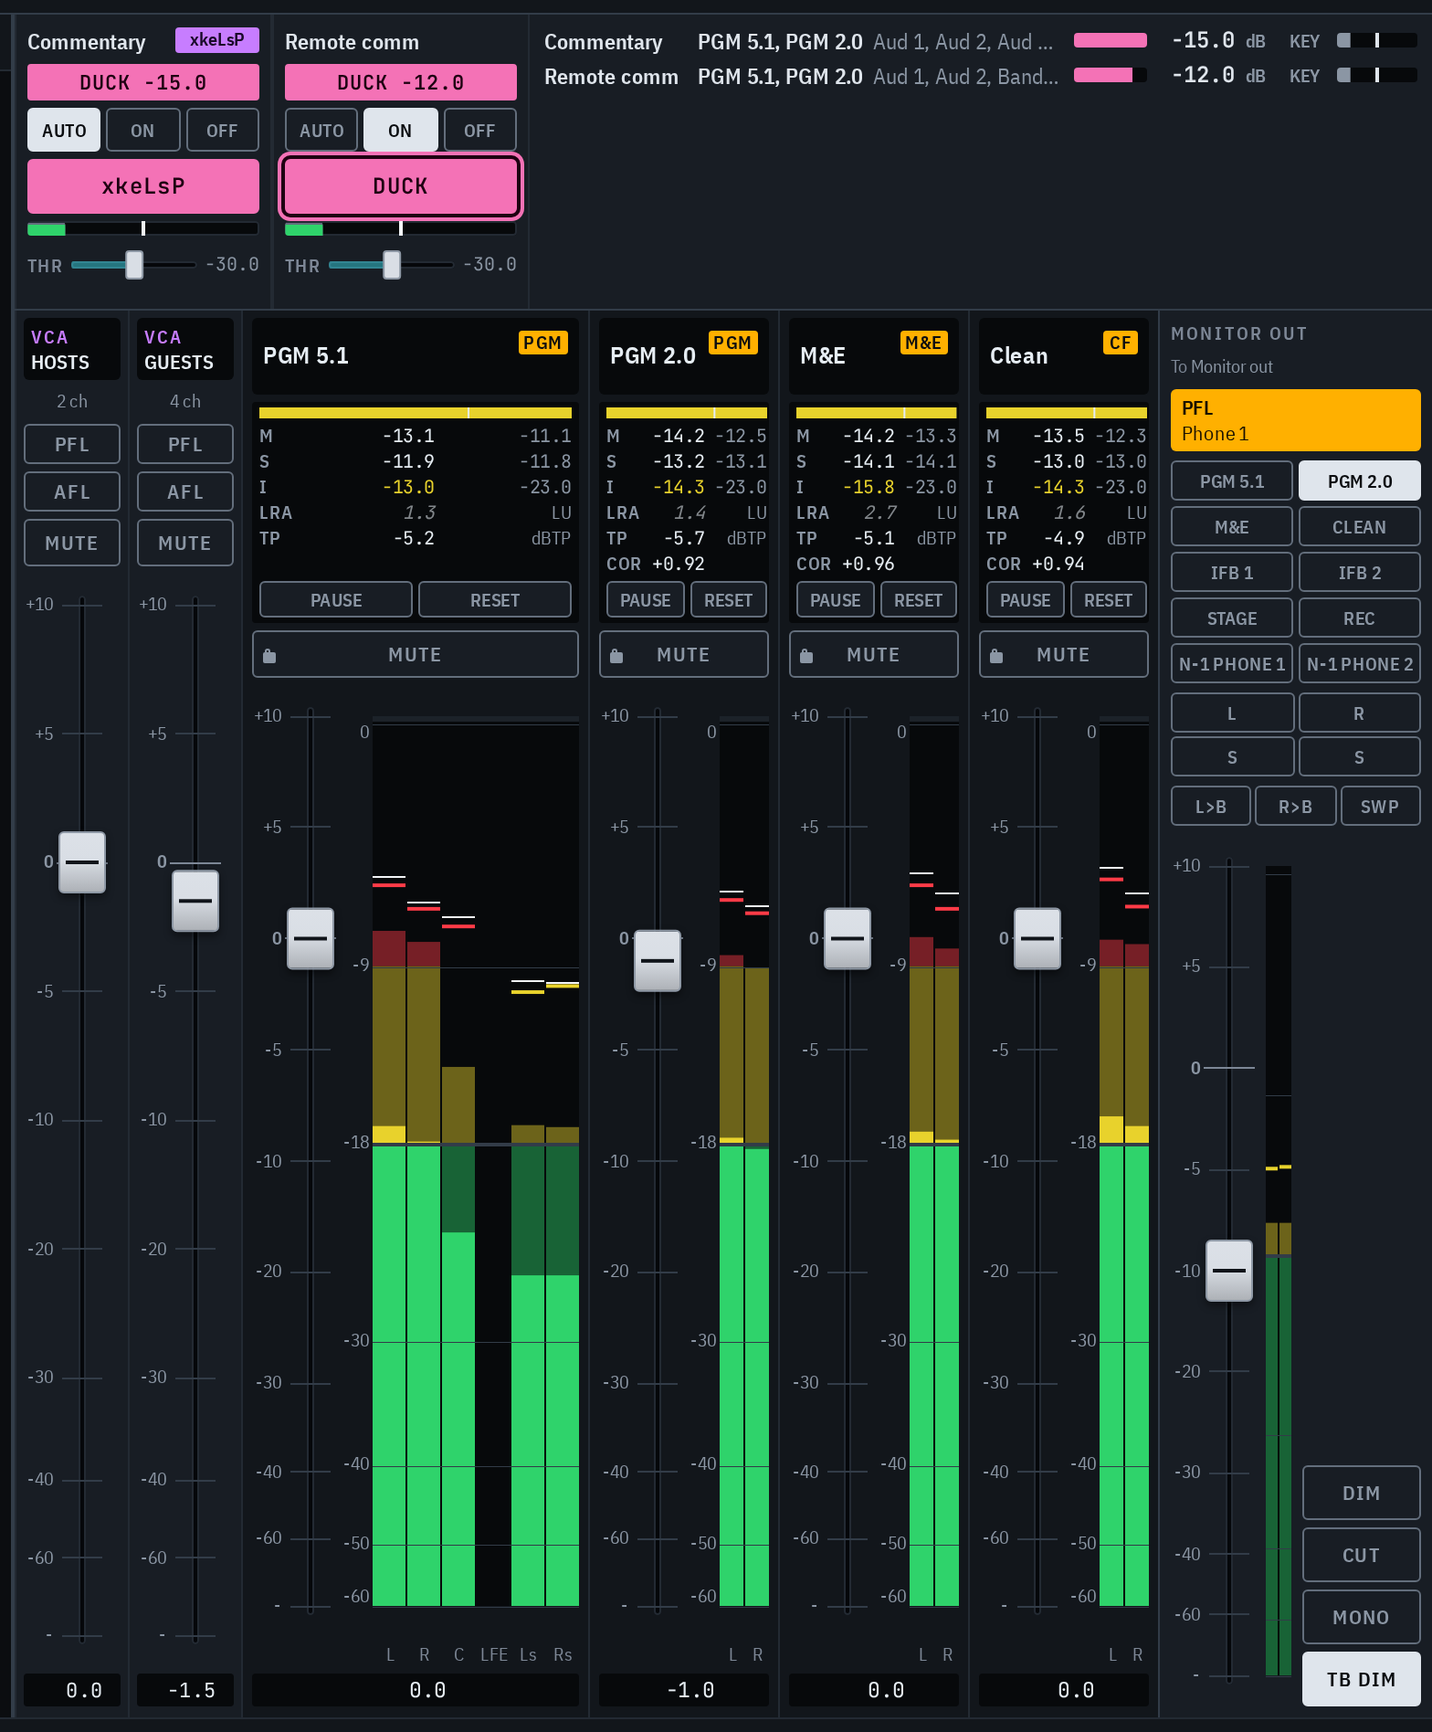
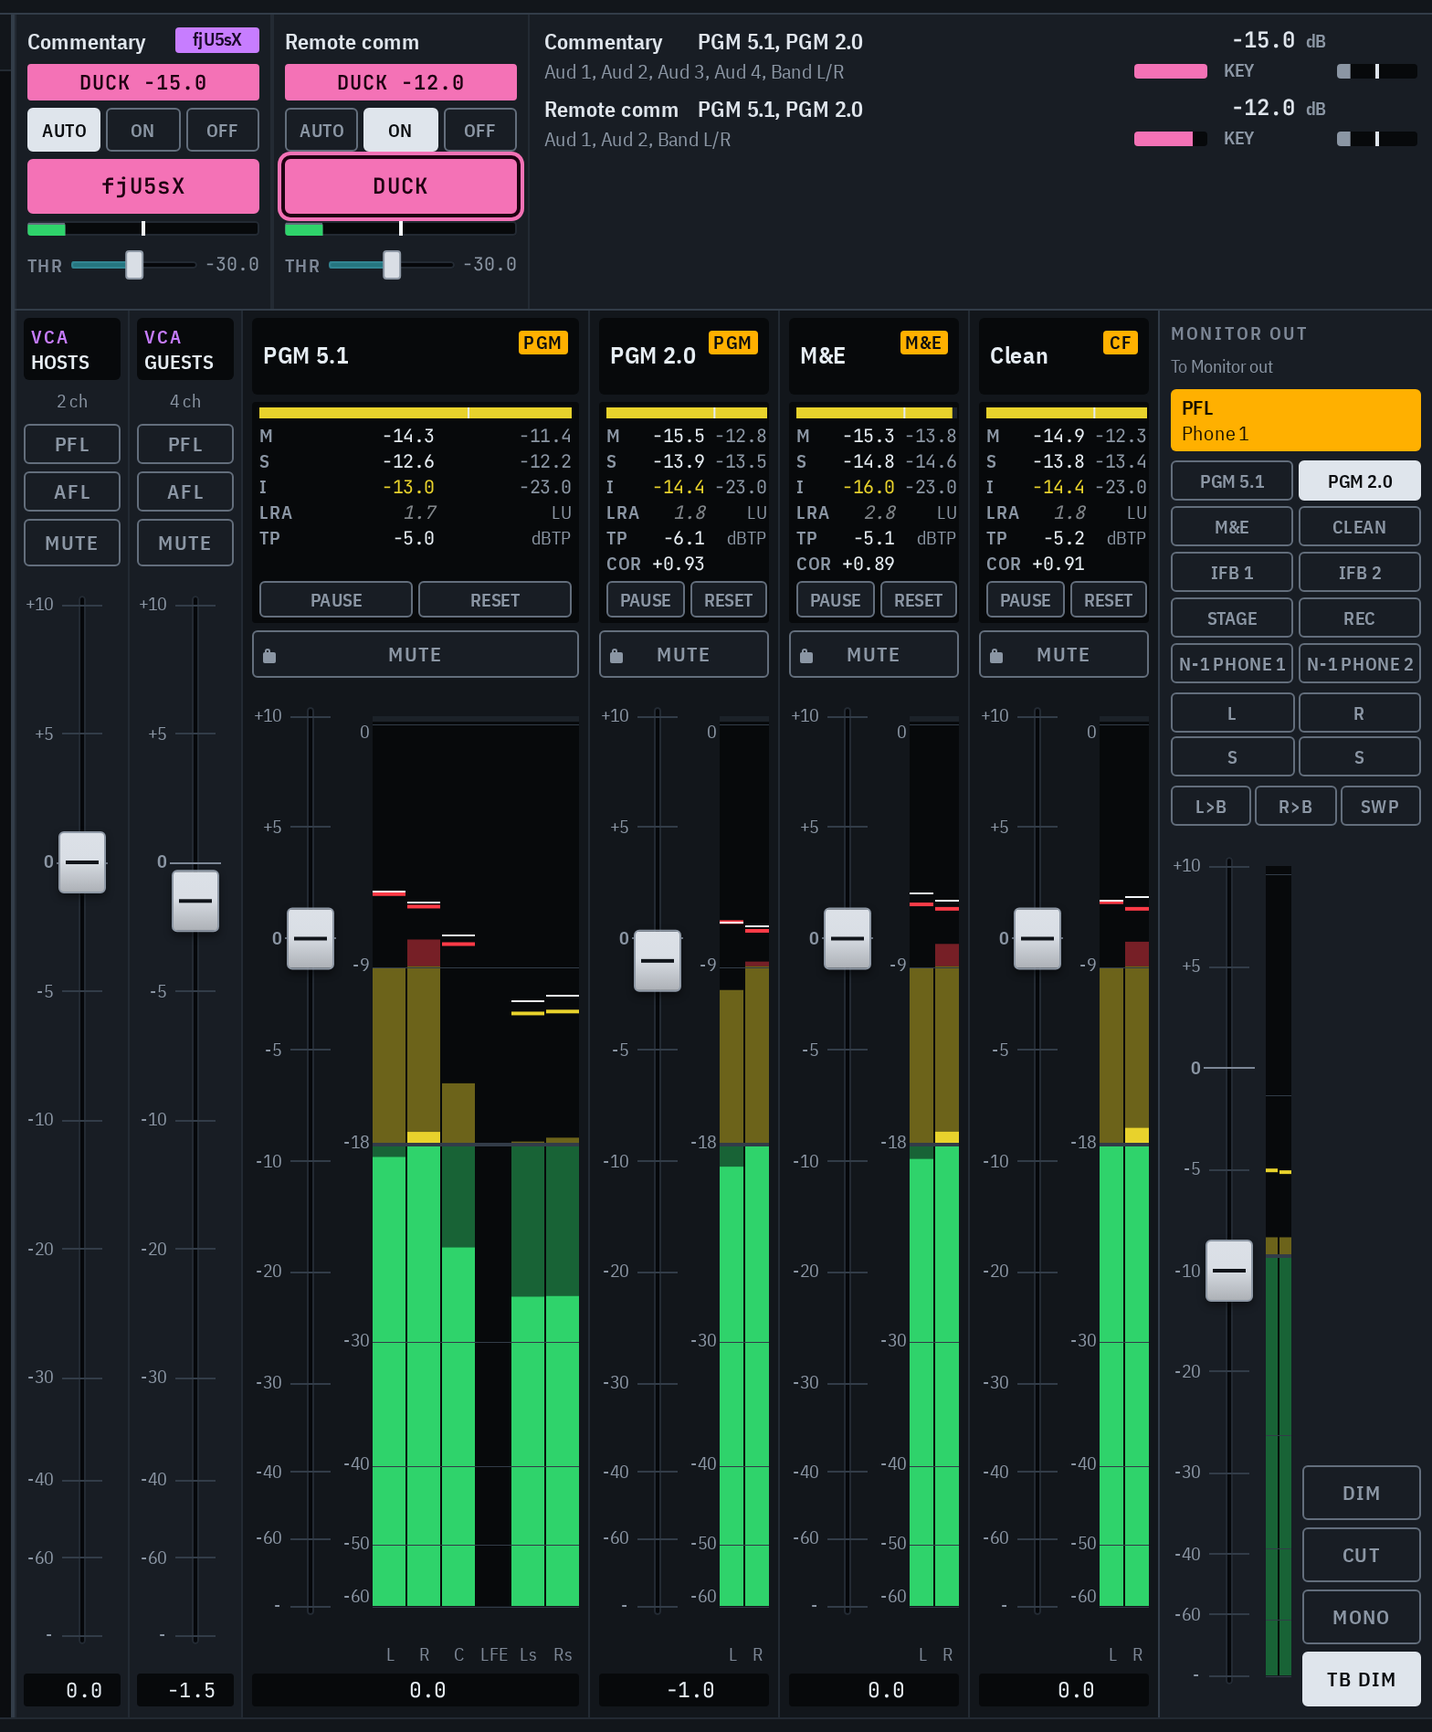
fix(web): give each duck group's outputs a row of their own
The round-2 UX review found that beside three tiles the outputs column
got about 50 px, so the second programme bus, and any IFB or N-1, was
cut; the screen reader heard each line's text twice and none of its
readings; the condensed line said KEY by hue alone; the threshold tick
faded over a lit key bar. Each group now takes two rows: the name, the
outputs and the reduction first, the targets, reduction bar, KEY and
key bar second; narrower than 300 px the outputs take the whole first
row. The band's height holds four groups, so the summary shows for up
to four. A line is named by its group, and its tooltip adds the
readings of the moment it took focus or the pointer. KEY stays in
every form; the tick is edged in the well's colour.

A strip's duck chip pads DK and KEY with centre() to GR_WIDTH and its
text block follows the chip's height with a coarse pointer; the tile's
key meter takes its scale from keyShare, as the summary.

diff --git a/web/src/components/DuckSummary.svelte b/web/src/components/DuckSummary.svelte
@@ -1,15 +1,16 @@
 <script lang="ts">
-  // The rest of the masters' duck band, beside the tiles: one line per
-  // group with its name, the outputs it lowers, the targets it lowers in
-  // them, its gain reduction as a bar and in dB, and its key as a bar
-  // against its threshold, KEY lit while the key triggers it. Narrower
-  // than SUMMARY_FULL_W the line keeps the name, the outputs, the
-  // reduction in dB and the key bar. Every part has a fixed size and the
-  // whole a strict containment, so no reading lays out anything outside
-  // it; none of it is a live region.
+  // The rest of the masters' duck band, beside the tiles: per group two
+  // rows. The first has its name, the outputs it lowers and its gain
+  // reduction in dB; the second the targets it lowers in them, the
+  // reduction as a bar, KEY lit while the key triggers it, and the key as
+  // a bar against its threshold. Narrower than SUMMARY_FULL_W the
+  // reduction bar goes. Every part has a fixed size and the whole a strict
+  // containment, so no reading lays out anything outside it; none of it
+  // is a live region. Focused or pointed at, a line's tip adds its
+  // readings of that moment.
   import { onMount } from 'svelte';
   import { tip } from '../lib/tip';
-  import { deepestDepth, duckReach, keyShare, liveDuck, reductionShare, summaryReduction } from '../lib/duck';
+  import { deepestDepth, duckReach, keyShare, keyText, liveDuck, reductionShare, summaryReduction } from '../lib/duck';
   import { onAnimationFrame } from '../lib/meters/store';
   import { getMixer } from '../lib/state/mixer.svelte';
 
@@ -36,23 +37,41 @@
       });
     }),
   );
+  /** Each line's readings when it took focus or the pointer: they change per meter frame, its tip only then. */
+  let readings = $state<string[]>([]);
+  function describe(i: number, depth: number): void {
+    const gr = depth * (envelopes[i] ?? 0);
+    readings[i] = `Reduction ${summaryReduction(gr).trim()} dB, key ${keyText(keys[i] ?? null).trim()} dBFS${engaged[i] ? ', keyed' : ''}`;
+  }
 </script>
 
 <div class="summary" role="group" aria-label="Ducking now" data-testid="duck-summary">
   {#each groups as g, i (g.id)}
     {@const d = mixer.state!.ducks[g.id]!}
     {@const reach = duckReach(shape, d)}
-    {@const gr = deepestDepth(d) * (envelopes[i] ?? 0)}
+    {@const depth = deepestDepth(d)}
+    {@const gr = depth * (envelopes[i] ?? 0)}
     {@const text = `${g.name}: lowers ${reach.targets} in ${reach.into}`}
-    <!-- One tab stop per group: its tip carries the whole of a name, outputs or targets cut off. -->
+    <!-- One tab stop per group, named by the group: its tip, the description
+         while it shows, carries the whole of a name, outputs or targets cut
+         off and the readings when it took focus or the pointer. -->
     <!-- svelte-ignore a11y_no_noninteractive_tabindex -->
-    <div class="line" role="note" tabindex="0" aria-label={text} use:tip={text} data-testid={`duck-summary-${g.id}`}>
+    <div
+      class="line"
+      role="note"
+      tabindex="0"
+      aria-label={g.name}
+      onfocus={() => describe(i, depth)}
+      onpointerenter={() => describe(i, depth)}
+      use:tip={readings[i] ? `${text}. ${readings[i]}` : text}
+      data-testid={`duck-summary-${g.id}`}
+    >
       <span class="name">{g.name}</span>
       <span class="into" data-testid={`duck-summary-into-${g.id}`}>{reach.into}</span>
-      <span class="targets">{reach.targets}</span>
-      <span class="bar" aria-hidden="true"><i class:on={gr > 0} style:transform={`scaleX(${reductionShare(gr, scale)})`}></i></span>
       <span class="gr" data-testid={`duck-summary-gr-${g.id}`}><span class="fixed" class:on={gr > 0}>{summaryReduction(gr)}</span></span>
       <span class="lbl db">dB</span>
+      <span class="targets">{reach.targets}</span>
+      <span class="bar" aria-hidden="true"><i class:on={gr > 0} style:transform={`scaleX(${reductionShare(gr, scale)})`}></i></span>
       <span class="lbl keyed" class:on={engaged[i]} data-testid={`duck-summary-keyed-${g.id}`}>KEY</span>
       <span class="keybar" aria-hidden="true" data-testid={`duck-summary-key-${g.id}`}
         ><i class:on={engaged[i]} style:transform={`scaleX(${keyShare(keys[i] ?? null)})`}></i><b style:left={`${keyShare(d.threshold) * 100}%`}></b></span
@@ -69,20 +88,53 @@
     padding: 5px 8px;
     display: flex;
     flex-direction: column;
-    gap: 1px;
+    gap: 4px;
     overflow: hidden;
     background: var(--panel-2);
     font-size: 12px;
     contain: strict;
     container-type: inline-size;
   }
+  /* Two rows a group. The outputs take the first row's width but the
+     name and the reduction, the targets the second's but the reduction
+     bar, KEY and the key bar. */
   .line {
-    display: grid;
-    grid-template-columns: 13ch fit-content(16ch) minmax(0, 1fr) 40px 42px auto auto 44px;
-    align-items: center;
-    gap: 6px;
-    height: 18px;
     flex: none;
+    display: grid;
+    grid-template-columns: 13ch minmax(0, 1fr) 40px 42px auto 44px;
+    grid-template-rows: 18px 15px;
+    grid-template-areas:
+      'name into into gr db .'
+      'tgt tgt bar key . kbar';
+    align-items: center;
+    column-gap: 6px;
+  }
+  .name {
+    grid-area: name;
+  }
+  .into {
+    grid-area: into;
+  }
+  .gr {
+    grid-area: gr;
+    height: 100%;
+  }
+  .db {
+    grid-area: db;
+  }
+  .targets {
+    grid-area: tgt;
+    font-size: 11px;
+  }
+  .bar {
+    grid-area: bar;
+  }
+  .keyed {
+    grid-area: key;
+    justify-self: start;
+  }
+  .keybar {
+    grid-area: kbar;
   }
   .name,
   .into,
@@ -117,7 +169,8 @@
   .keybar i.on {
     background: var(--well-duck);
   }
-  /* The threshold on the key's scale. */
+  /* The threshold on the key's scale, edged in the well's colour so it
+     shows over a lit fill too. */
   .keybar b {
     position: absolute;
     top: 0;
@@ -125,21 +178,22 @@
     width: 2px;
     margin-left: -1px;
     background: var(--well-mark);
+    box-shadow:
+      -1px 0 0 var(--well),
+      1px 0 0 var(--well);
   }
   /* The reduction changes per meter frame: a block of fixed size with
      strict containment in its cell lays out nothing outside it, which a
-     grid item of its own does not do. */
+     grid item of its own does not do. Colour only: a weight change would
+     lay it out again. */
   .gr span {
-    display: block;
-    height: 18px;
-    line-height: 18px;
-    text-align: right;
-    contain: strict;
-  }
-  /* Colour only: a weight would lay it out again at every change. */
-  .gr span {
+    display: flex;
+    align-items: center;
+    justify-content: flex-end;
+    height: 100%;
     font-weight: 600;
     color: var(--text-dim);
+    contain: strict;
   }
   .gr span.on {
     color: var(--text);
@@ -150,7 +204,6 @@
     font-weight: 600;
   }
   .lbl.keyed {
-    margin-left: 4px;
     padding: 0 3px;
     border-radius: 2px;
   }
@@ -158,16 +211,20 @@
     background: var(--duck);
     color: var(--duck-ink);
   }
-  /* Condensed: name, outputs, reduction in dB and the key bar, whose
-     colour says the key triggers. */
+  /* Narrower: the outputs take the whole first row but the name, and the
+     reduction moves to the second, which drops its bar. */
   @container (width < 300px) {
     .line {
-      grid-template-columns: 8ch minmax(0, 1fr) 42px 32px;
-      gap: 4px;
+      grid-template-columns: 8ch minmax(0, 1fr) 42px auto auto 32px;
+      grid-template-areas:
+        'name into into into into into'
+        'tgt tgt gr db key kbar';
+      column-gap: 4px;
     }
-    .targets,
-    .bar,
-    .lbl {
+    .gr span {
+      font-size: 11px;
+    }
+    .bar {
       display: none;
     }
   }

diff --git a/web/src/components/ChannelStrip.svelte b/web/src/components/ChannelStrip.svelte
@@ -14,7 +14,7 @@
   import { hold } from '../lib/hold';
   import { MediaQuery } from 'svelte/reactivity';
   import { pointer } from '../lib/state/pointer';
-  import { channelDucks, channelReduction, forced, liveDuck, reductionText } from '../lib/duck';
+  import { GR_WIDTH, channelDucks, channelReduction, forced, liveDuck, reductionText } from '../lib/duck';
   import { onAnimationFrame } from '../lib/meters/store';
 
   interface Props {
@@ -195,7 +195,7 @@
         title={`Duck: ${duckText}. Open it in the processing panel`}
         aria-label={`${channel.name} duck, ${duckText}`}
         data-testid={`duck-chip-${channel.id}`}
-        ><span class="gr fixed">{reduction > 0 ? reductionText(reduction) : ducks.triggers.length > 0 ? 'KEY ' : ' DK '}</span></button
+        ><span class="gr fixed">{reduction > 0 ? reductionText(reduction) : centre(ducks.triggers.length > 0 ? 'KEY' : 'DK', GR_WIDTH)}</span></button
       >
     {/if}
   </div>
@@ -510,16 +510,17 @@
     flex: 0 0 28px;
     height: 18px;
   }
-  /* Its text changes per meter frame while it lowers: one span of fixed
-     size and one font, whatever it reads, with strict containment, lays
-     out nothing outside it, and every reading is GR_WIDTH characters of
-     it, so the text starts at one place and never shifts. The chip itself takes no containment, which
-     would make it a stacking context and put the hit area of its
-     ::before under the rows next to it. The chip's colour and line, not
-     those of the strip's .fixed text. */
+  /* Its text changes per meter frame while it lowers: one span as high
+     as the chip and of one font, whatever it reads, with strict
+     containment, lays out nothing outside it, and every reading is
+     GR_WIDTH characters of it, so the text starts at one place and never
+     shifts. The chip itself takes no containment, which would make it a
+     stacking context and put the hit area of its ::before under the rows
+     next to it. The chip's colour and line, not those of the strip's
+     .fixed text. */
   .chip.duck .gr {
     display: block;
-    height: 18px;
+    height: 100%;
     color: inherit;
     line-height: inherit;
     contain: strict;

diff --git a/web/src/lib/duck.ts b/web/src/lib/duck.ts
@@ -272,21 +272,23 @@ export class DuckPress {
 /** Width of a duck tile in the masters band, px, and the gap after it. */
 export const TILE_W = 141;
 /**
- * The least width the band's summary takes, px: its condensed form, a
- * line per group with its name, outputs, reduction and key bar. From
- * SUMMARY_FULL_W on it adds the targets and the reduction bar.
+ * The least width the band's summary takes, px; narrower than
+ * SUMMARY_FULL_W it drops the reduction bar. Each group takes two rows,
+ * so the band's height holds SUMMARY_MAX_GROUPS of them.
  */
 export const SUMMARY_MIN_W = 180;
 export const SUMMARY_FULL_W = 300;
+export const SUMMARY_MAX_GROUPS = 4;
 
 /**
  * Whether the masters band shows its summary beside `groups` tiles in
  * `width` px: only with a fine pointer, outside the narrow layout where
- * the masters lie over the strips, and where the tiles leave it its
- * least width. Otherwise the band keeps its tiles alone.
+ * the masters lie over the strips, for at most SUMMARY_MAX_GROUPS, and
+ * where the tiles leave it its least width. Otherwise the band keeps its
+ * tiles alone.
  */
 export function summaryFits(width: number, groups: number, coarse: boolean, narrow: boolean): boolean {
-  return !coarse && !narrow && groups > 0 && width - groups * TILE_W >= SUMMARY_MIN_W;
+  return !coarse && !narrow && groups > 0 && groups <= SUMMARY_MAX_GROUPS && width - groups * TILE_W >= SUMMARY_MIN_W;
 }
 
 /** What a group lowers and where, by name: its destinations (buses, auxes, mix-minus outputs) and its targets, each in shape order. */
@@ -300,7 +302,7 @@ export function duckReach(shape: Shape, d: DuckState): { targets: string; into: 
 export const KEY_WIDTH = 5;
 
 /**
- * A group's key level in words and the line's description: dBFS with one
+ * A group's key level in a summary line's readings: dBFS with one
  * decimal, "-inf" at -100 and below as other level readouts
  * (format.ts), "--" while the group reports none.
  */

diff --git a/web/src/components/DuckTile.svelte b/web/src/components/DuckTile.svelte
@@ -6,7 +6,7 @@
   import { onMount } from 'svelte';
   import { fit } from '../lib/format';
   import { tip } from '../lib/tip';
-  import { LAMP_WIDTH, lampLit, lampText, liveDuck } from '../lib/duck';
+  import { LAMP_WIDTH, keyShare, lampLit, lampText, liveDuck } from '../lib/duck';
   import type { DuckMeter, DuckMode, DuckShape } from '../lib/contract/types';
   import { onAnimationFrame } from '../lib/meters/store';
   import { getMixer } from '../lib/state/mixer.svelte';
@@ -53,7 +53,7 @@
   const live = $derived<DuckMeter | null>(key === null && envelope === 0 && !engaged ? null : { key, envelope, engaged });
   const lit = $derived(lampLit(d, live));
   /** The key level on the threshold's scale, -60..0 dBFS, 0..1. */
-  const keyAt = $derived(key === null ? 0 : Math.min(1, Math.max(0, (key + 60) / 60)));
+  const keyAt = $derived(keyShare(key));
 </script>
 
 <section class="tile" aria-label={`Duck ${duck.name}`} data-duck={duck.id}>
@@ -72,7 +72,7 @@
   <DuckKey id={duck.id} name={duck.name} {shortcut} />
   <div class="keymeter" aria-hidden="true" data-testid={`duck-keymeter-${duck.id}`}>
     <i class="key" class:over={engaged} style:transform={`scaleX(${keyAt})`} data-testid={`duck-key-level-${duck.id}`}></i>
-    <span class="travel" style:transform={`translateX(${((d.threshold + 60) / 60) * 100}%)`}><i class="marker"></i></span>
+    <span class="travel" style:transform={`translateX(${keyShare(d.threshold) * 100}%)`}><i class="marker"></i></span>
   </div>
   <div class="sens">
     <span class="lbl">THR</span>

diff --git a/web/tests/e2e/layout.spec.ts b/web/tests/e2e/layout.spec.ts
@@ -5,6 +5,7 @@
 
 import { expect, test, type Page } from '@playwright/test';
 import { HEADERS, RawClient, debug, dragFader, live, patch, resetMock } from './support';
+import { TILE_W } from '../../src/lib/duck';
 
 interface Shift {
   value: number;
@@ -491,3 +492,22 @@ test('a notice gives its keys a finger-sized target on a touch screen and moves 
     other.close();
   }
 });
+
+// The summary beside three and four tiles of the 776 px masters of the
+// example shape: the width the tiles leave it, on the two groups the
+// mock has. Each group's outputs show whole on its first row.
+for (const tiles of [3, 4]) {
+  test(`the duck summary shows each group's outputs whole beside ${tiles} tiles`, { tag: '@mock' }, async ({ page }, info) => {
+    test.skip(info.project.name !== 'desktop', 'the summary shows with a fine pointer from 1400 px on');
+    await live(page);
+    const width = 776 - tiles * TILE_W;
+    await page.addStyleTag({ content: `.ducks .summary { flex: 0 0 ${width}px !important; }` });
+    await expect(page.getByTestId('duck-summary')).toBeVisible();
+    await expect.poll(() => page.getByTestId('duck-summary').evaluate((e) => Math.round(e.getBoundingClientRect().width))).toBe(width);
+    for (const id of ['comm', 'remote']) {
+      const into = page.getByTestId(`duck-summary-into-${id}`);
+      const cut = await into.evaluate((e) => e.scrollWidth > e.clientWidth);
+      expect(cut, `${id}: ${await into.textContent()}`).toBe(false);
+    }
+  });
+}

diff --git a/web/tests/unit/duckSummary.test.ts b/web/tests/unit/duckSummary.test.ts
@@ -16,9 +16,12 @@ describe('the duck band summary', () => {
     expect(summaryFits(4000, 2, true, false)).toBe(false);
     expect(summaryFits(4000, 2, false, true)).toBe(false);
     expect(summaryFits(4000, 0, false, false)).toBe(false);
+    // Two rows a group: the band's height holds four.
+    expect(summaryFits(4000, 4, false, false)).toBe(true);
+    expect(summaryFits(4000, 5, false, false)).toBe(false);
   });
 
-  it('still shows, condensed, beside four tiles in the example shape\'s masters', () => {
+  it('still shows beside four tiles in the example shape\'s masters', () => {
     // The example shape's masters, and so the band, are 776 px wide.
     expect(summaryFits(776, 4, false, false)).toBe(true);
     expect(summaryFits(776, 5, false, false)).toBe(false);

diff --git a/web/README.md b/web/README.md
@@ -338,18 +338,20 @@ its envelope is above 0, how far its deepest target is lowered (DUCK
 -12.0), else DUCK HELD, DUCK ON, BYPASS or AUTO, with KEY while the key
 triggers it; it sets the threshold, and its key meter row shows the key
 level against it. More groups than fit one row of tiles scroll within
-it. Beside the masters with a fine pointer, where the tiles leave the
-band at least 180 px, the band's summary takes the rest of it: a line
-per group with its name, the buses, auxes and mix-minus outputs it
-lowers, the targets it lowers in them, its gain reduction as a bar on
-one scale for every group (0 to the deepest depth of any) and in dB,
-and its key as a bar against its threshold, KEY lit while the key
-triggers it. Narrower than 300 px the line keeps the name, the outputs,
-the reduction in dB and the key bar, coloured while the key triggers;
-the band keeps its height. In the example shape's masters, 776 px
-wide, that is the full line up to three groups, the condensed one at
-four and none from five. Under 1400 px, where the masters lie over the
-strips, and with a coarse pointer the band shows its tiles alone. A
+it. Beside the masters with a fine pointer, for up to four groups and
+where the tiles leave the band at least 180 px, the band's summary takes
+the rest of it: two rows per group, the first with its name, the buses,
+auxes and mix-minus outputs it lowers and its gain reduction in dB, the
+second with the targets it lowers in them, the reduction as a bar on one
+scale for every group (0 to the deepest depth of any), KEY lit while
+the key triggers it and the key as a bar against its threshold.
+Narrower than 300 px the outputs take the whole first row, the
+reduction moves to the second and its bar goes. A line's tooltip, on
+focus or hover, adds its readings of that moment. The band keeps its
+height. In the example shape's masters, 776 px wide, the summary shows
+beside up to four groups, and from five not at all. Under 1400 px,
+where the masters lie over the strips, and with a coarse pointer the
+band shows its tiles alone. A
 strip in a group carries a DK chip (KEY on a trigger), lit while
 a group that lowers it is held or latched in or lowers it now, when it
 reads the gain reduction in place of DK, or, on a trigger, while a
